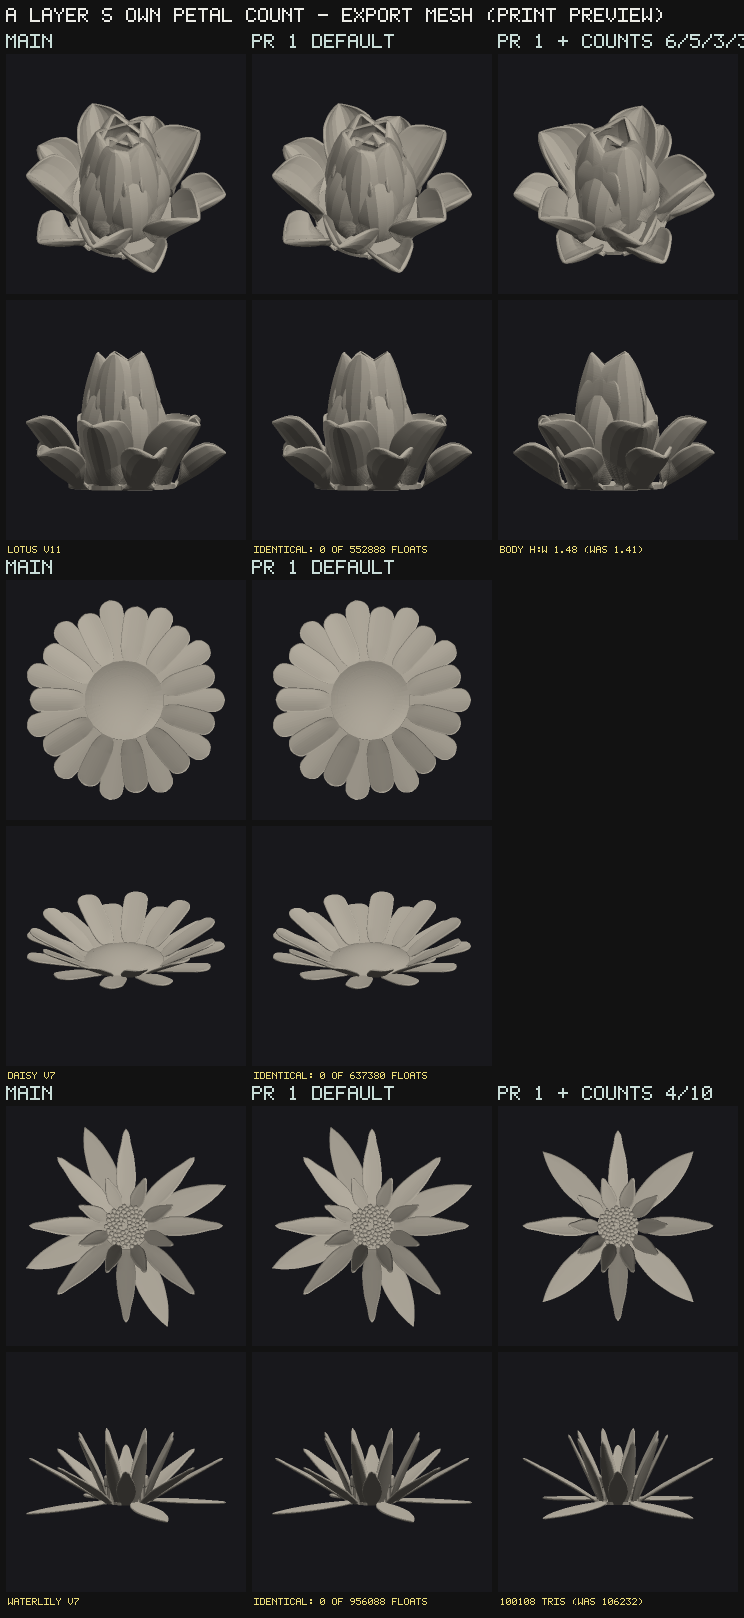
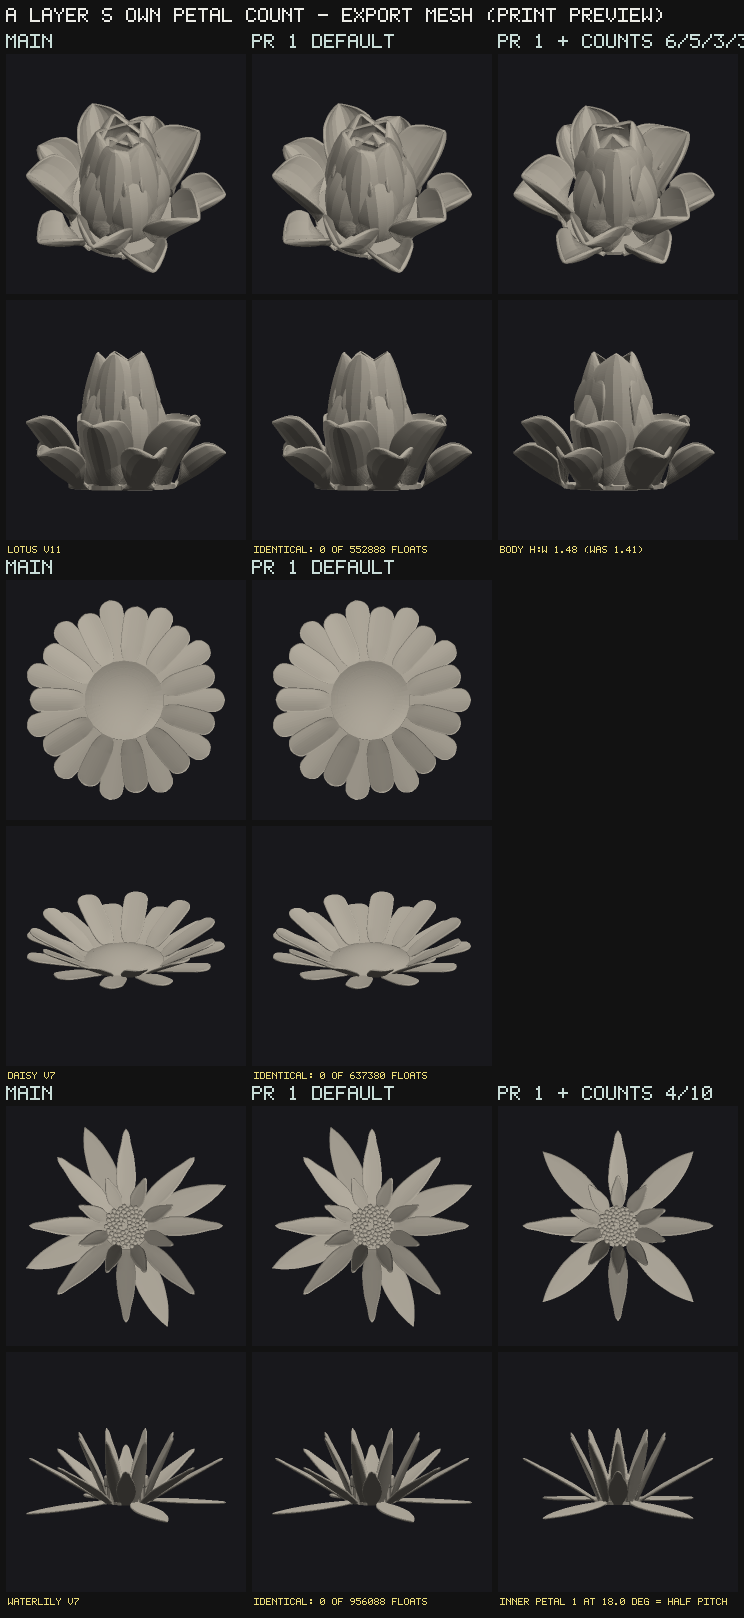
Petal count per whorl: Eva's §19.5 rulings — half-pitch inactive phase, per-turn SPIRAL flag
Rulings of Nov 8 on §19.5, recorded with the questions kept beneath:
1. range 3-40 approved; 2. the variance bar on the smallest whorl approved as built;
3. the SPIRAL legibility flag reads each turn's own count (footRing's
   `spiralShortTurns`, named on the flag: "on turn 3 (5 petals)");
4. a whorl whose count differs from the one outside it starts half its own
   pitch over (one line in `countPhases` and its restatement).

Witnesses: PC5 (the inner whorl's first emitted azimuth pi / its count past
the outer's) and PC6 (the short turns restated from each turn's own count,
against the build and the page's flag, both ways). Block 86 gains SPIRAL
13/8/8 (not flagged) beside 13/8/5 (flagged); the water lily row is the
half-pitch witness (18 deg). Mutants: the-inactive-phase-is-aligned and
the-spiral-flag-reads-the-global in the PC must-fail (9 of 9) and panel
route (at) (7 of 7); the inactive-pairs mutant re-anchored and re-run.

Local: block 86 export 18/18 and connectedness 18/18; route (at) clean
with its mutants; old load path 48/48 identical; apex anchors 273/273;
smoke census 253 families; sheet re-rendered (default 0 floats differ).

Claude-Session: https://claude.ai/code/session_01CdxGn2zMgu68tdjW7uzHzU

diff --git a/bloom.js b/bloom.js
@@ -2251,9 +2251,19 @@ function showingLine(mode) {
    the number and this reads it, so SPIRAL's behaviour is unchanged to the
    character (sequenceLength IS petalCount there) while the claim stays true
    in the new mode. */
+/* NOV 8 (Eva's ruling on §19.5 item 3): UNDER SPIRAL EACH TURN RUNS ITS OWN
+   SEQUENCE, so the flag reads EACH TURN'S OWN COUNT — footRing()'s
+   `spiralShortTurns` — and a 5-petal turn in 13/8/5 is flagged. With no count
+   owned every turn carries the global, so this is the old predicate exactly. */
 function spiralLowCount(ui, fr) {
-  return (ui.placement === 'SPIRAL' || ui.placement === 'CONTINUOUS')
-    && fr.sequenceLength < SPIRAL_LEGIBLE_COUNT;
+  if (ui.placement === 'SPIRAL') return !!(fr.spiralShortTurns && fr.spiralShortTurns.length);
+  return ui.placement === 'CONTINUOUS' && fr.sequenceLength < SPIRAL_LEGIBLE_COUNT;
+}
+/* which turns, named — only where a turn owns its count (the old line is
+   unchanged to the character where none does) */
+function spiralShortWhere(ui, fr) {
+  if (ui.placement !== 'SPIRAL' || !fr.countsOwned || !fr.spiralShortTurns || !fr.spiralShortTurns.length) return '';
+  return ` on ${fr.spiralShortTurns.map((t) => `turn ${t.turn + 1} (${t.count} petals)`).join(', ')}`;
 }
 
 /* THE FOOT-FLOOR RANGE, and why it is a RANGE now. Under the ringed arm
@@ -2390,7 +2400,7 @@ function layerCountLine(fr, mode, ui) {
   const word = String(ui.placement) === 'SPIRAL' ? 'turn' : 'layer';
   const per = (fr.rings || []).map((r) => `${word} ${Math.round(r.lambda) + 1} ${r.ownCount ? `${r.ownCount.built} own${r.ownCount.snapped ? ` (asked ${r.ownCount.asked}, SNAPPED)` : ''}` : `${Math.round(Number(ui.petalCount))} global`}`);
   const off = fr.phaseInactive && fr.phaseInactive.length
-    ? ` · LAYER PHASE INACTIVE between ${fr.phaseInactive.map((L) => `${word}s ${L} and ${L + 1} (${fr.whorlCounts[L - 1]} vs ${fr.whorlCounts[L]})`).join(', ')} — their counts differ`
+    ? ` · LAYER PHASE INACTIVE between ${fr.phaseInactive.map((L) => `${word}s ${L} and ${L + 1} (${fr.whorlCounts[L - 1]} vs ${fr.whorlCounts[L]})`).join(', ')} — their counts differ, so the inner one starts half its own pitch over`
     : '';
   const sep = fr.sepals && fr.rings[0] && fr.rings[0].ownCount ? ` · the sepals read the outer whorl's ${fr.rings[0].ownCount.built}` : '';
   return `PETAL COUNTS (${mode}, per ${word}): ${per.join('; ')}${off}${sep}\n`;
@@ -3950,7 +3960,7 @@ function summarise(ui, acc, mode, rings, fr, petals, built = null) {
        + (built && built.leaf && built.leaf.present ? leafLine(built.leaf, built.leavesBuilt) : '')
        + (built && built.inflorescence && built.inflorescence.present ? infloLine(built.inflorescence, built.inflorescenceBuilt) : '')
        + (built ? sepalLine(ui, built, mode) : '')
-       + (spiralLowCount(ui, fr) ? `SPIRAL BELOW ${SPIRAL_LEGIBLE_COUNT} IN THE SEQUENCE: the golden angle reads as an irregular whorl, not as phyllotaxis\n` : '')
+       + (spiralLowCount(ui, fr) ? `SPIRAL BELOW ${SPIRAL_LEGIBLE_COUNT} IN THE SEQUENCE${spiralShortWhere(ui, fr)}: the golden angle reads as an irregular whorl, not as phyllotaxis\n` : '')
        + (built && built.neighbour ? neighbourLine(built.neighbour, mode) : '')
        + `tris (${mode}) ${tris} · max dim (${mode}) ${dim} mm`;
 }
@@ -5567,6 +5577,9 @@ window.__bloomMetrics = () => ({
      `placement` would be a second copy of the branch. */
   continuousMode: lastFoot.continuousMode,
   sequenceLength: lastFoot.sequenceLength,
+  /* the turns the SPIRAL legibility flag names (each turn's own count, Nov 8) */
+  spiralShortTurns: lastFoot.spiralShortTurns || null,
+  spiralFlagShown: spiralLowCount({ placement: lastPlacement }, lastFoot),
   /* ===================================================================
      THE ARRANGEMENT'S POSITION AROUND THE AXIS — J7's and Z4b's only input,
      and the reason this session had to ship an instrument at all.

diff --git a/bloom-geometry.js b/bloom-geometry.js
@@ -2828,8 +2828,10 @@ export function footRing(state, acc, opts = {}) {
      INACTIVE between two whorls whose counts differ. Layer phase turns whorl L
      by `layerPhase` of ONE PITCH against whorl L-1, and between a 4-petal and a
      10-petal whorl "a pitch" has no single meaning — so across such a pair the
-     inner whorl takes the outer one's phase unchanged (no offset), and a run of
-     equal-count whorls below it steps by its OWN pitch from there. footRing()
+     inner whorl starts HALF ITS OWN PITCH over the outer one's phase (Eva's
+     ruling of Nov 8 on §19.5 item 4: not aligned on the same angle — that was
+     the first build, superseded), and a run of equal-count whorls below it
+     steps by its OWN pitch from there. footRing()
      owns the law and names every inactive pair (`phaseInactive`, the inner
      whorl's 0-based index); the read-out says so. WHERE NO LAYER OWNS A COUNT
      this array is null and the descriptor takes the pre-existing expression
@@ -2840,7 +2842,7 @@ export function footRing(state, acc, opts = {}) {
     const out = [];
     let start = 0;
     for (let L = 0; L < raw.length; L++) {
-      if (L > 0 && raw[L].whorlCount !== raw[L - 1].whorlCount) { start = L; out.push(out[L - 1]); phaseInactive.push(L); continue; }
+      if (L > 0 && raw[L].whorlCount !== raw[L - 1].whorlCount) { start = L; out.push(out[L - 1] + Math.PI / raw[L].whorlCount); phaseInactive.push(L); continue; }
       out.push(start === 0 ? (raw[L].lambda * state.layerPhase * TAU) / raw[L].whorlCount : out[start] + ((L - start) * state.layerPhase * TAU) / raw[L].whorlCount);
     }
     return out;
@@ -3717,6 +3719,16 @@ export function footRing(state, acc, opts = {}) {
     countsOwned,
     whorlCounts: continuousMode ? null : raw.map((q) => (q.ownCount ? q.ownCount.built : n)),
     phaseInactive,
+    /* THE SPIRAL LEGIBILITY FLAG READS EACH TURN'S OWN COUNT (Eva's ruling of
+       Nov 8 on §19.5 item 3): under SPIRAL every turn runs its own golden-angle
+       sequence, so a 5-petal turn in 13/8/5 is a sequence of five whatever the
+       global says. The turns (0-based) whose own count is under
+       SPIRAL_LEGIBLE_COUNT, with that count; null off SPIRAL. With no count
+       owned every turn carries `n`, so the list is non-empty exactly when the
+       old `sequenceLength < SPIRAL_LEGIBLE_COUNT` held — the flag unchanged. */
+    spiralShortTurns: state.placement === 'SPIRAL' && !continuousMode && !fanMode
+      ? raw.map((q, L) => ({ turn: L, count: q.ownCount ? q.ownCount.built : n })).filter((t) => t.count < SPIRAL_LEGIBLE_COUNT)
+      : null,
   };
 }
 

diff --git a/bloom-registry.js b/bloom-registry.js
@@ -3774,7 +3774,7 @@ export const CONTROLS = [
     label: 'Layer offset', fmt: (v, ui, shown) => {
       const pc = shown && shown.counts;
       const off = pc && pc.phaseInactive && pc.phaseInactive.length
-        ? ` — INACTIVE between ${pc.phaseInactive.map((L) => `${pc.name.toLowerCase()} ${L} and ${L + 1} (${pc.whorlCounts[L - 1]} vs ${pc.whorlCounts[L]} petals)`).join(', ')}: their counts differ, so there is no one pitch to offset by`
+        ? ` — INACTIVE between ${pc.phaseInactive.map((L) => `${pc.name.toLowerCase()} ${L} and ${L + 1} (${pc.whorlCounts[L - 1]} vs ${pc.whorlCounts[L]} petals)`).join(', ')}: their counts differ, so there is no one pitch to offset by — the inner whorl starts half its own pitch over`
         : '';
       return `${Number(v).toFixed(2)} slot${off}`;
     }, tier: 'standard', role: 'arrangement',

diff --git a/docs/bloom-photo-to-bloom-discovery.md b/docs/bloom-photo-to-bloom-discovery.md
@@ -2680,7 +2680,7 @@ the last column is what this PR did.
 | `petalGroupCount` / the role context | registry | **no** — FAN | none |
 | `tightestPitch`, `neighbourFlag`, the crowding feet (`footsOf`) | geometry | already read the emitted azimuths / the slot map | none needed |
 | the inflorescence's floret `petalCount` | geometry | **no** — a floret is a separate build with no scopes | none |
-| the SPIRAL legibility flag (`sequenceLength`) | page read-out | arguably — **left on the global**, flagged (§19.5) | none |
+| the SPIRAL legibility flag (`sequenceLength`) | page read-out, geometry | **yes, by ruling (§19.5 item 3)** — each turn's own count | footRing()'s `spiralShortTurns`, named on the flag |
 | the Petals read-out and the summary's `petals N` | registry, page | **yes** — told per whorl | per-whorl counts named |
 | the Layer offset read-out | registry | **yes, by ruling** — names each inactive pair | done |
 | the harness's "every petal accounted for" validity check | `junctionAssertions` | **yes** — found by the export gate on the first block-86 run (12 rows dropped) | restated whorl counts |
@@ -2700,10 +2700,15 @@ the last column is what this PR did.
 
 - **The area rule** sums each whorl's own feet, so R0 follows the count (the lotus at 6/5/3/3: 17.39 → 16.27 mm) and
   every owned ring, a fraction of R0, moves with it — §18.3's finding, now shipped.
-- **The layer phase is INACTIVE between two whorls whose counts differ**: across such a pair the inner whorl keeps the
-  outer one's phase unchanged (no offset); a run of equal counts below it steps by its own pitch from there. With no
-  count owned the phase is the old expression verbatim, by branch. **Consequence on the water lily (4/10): the inner
-  whorl's petal 1 stands on the outer's petal 1's azimuth** (no offset between them) — the ruling read literally.
+- **The layer phase is INACTIVE between two whorls whose counts differ**: across such a pair the inner whorl starts
+  **HALF ITS OWN PITCH** over the outer one's phase (ruled Nov 8, §19.5 item 4 — the first build put it on the same
+  angle); a run of equal counts below it steps by its own pitch from there. With no count owned the phase is the old
+  expression verbatim, by branch. On the water lily (4/10) the inner whorl's petal 1 stands **18°** past the outer's
+  petal 1 (π / 10); on the lotus (6/5/3/3) layer 2's stands 36° past layer 1's.
+- **The SPIRAL legibility flag reads EACH TURN's own count** (ruled Nov 8, §19.5 item 3): footRing() reports
+  `spiralShortTurns` (the turns under `SPIRAL_LEGIBLE_COUNT`, with their counts) and the flag names them —
+  `SPIRAL BELOW 8 IN THE SEQUENCE on turn 3 (5 petals)` on turns of 13/8/5 under a global 8. With no count owned every
+  turn carries the global, so the flag and its line are the old ones to the character.
 - **The sepals read the outer whorl's own count** (ceiling, pitch, interleave): 8 sepals asked over an outer whorl of 4
   build 4, told.
 - **Read-outs:** the Layer petals control (GLOBAL / OWN, asked vs built when SNAPPED, "the sepals follow this outer
@@ -2715,23 +2720,33 @@ the last column is what this PR did.
 - **PC0–PC4, a new family** (`petalCountClauses`, pure, carried in both STL gates through `zygoAssertions`): the record
   both ways (asked / built / snapped); each whorl's EMITTED azimuth count against the count restated from the row's
   `@scopes`; the inactive phase pairs; the AREA RULE restated over the per-whorl counts (ULP-bounded); the sepals'
-  ceiling and pitch on the outer whorl's restated count. **SV1** holds every emitted azimuth to the restated phase law,
+  ceiling and pitch on the outer whorl's restated count. **PC5** (Nov 8): across every restated inactive pair the inner
+  whorl's first EMITTED azimuth stands π / its restated count past the outer's. **PC6** (Nov 8): the turns under the
+  SPIRAL legibility bar, restated from each turn's own count, against the build's `spiralShortTurns` and the page's own
+  `spiralFlagShown`, both ways. **SV1** holds every emitted azimuth to the restated phase law (half pitch included),
   exactly. **PC1 counts the azimuths WRITTEN, not the row's length** — its own must-fail found that a whorl laid with
   fewer slots than its map leaves a pre-sized row with holes, which `.length` reads as the map.
 - **`node tools/verify-bloom-layer-count.mjs [--control]`** — the must-fail, because the apex table never runs the Z
-  family: 7 states clean; **7 of 7 mutants fire the clause they name, each witnessed on its mutated module** (the area
+  family: 9 states clean; **9 of 9 mutants fire the clause they name, each witnessed on its mutated module** (the area
   rule summing the global; the single-whorl arm likewise; the whorl keeping the global count; the phase staying active
-  across counts; the inactive pairs never named; the snap never recorded; the sepals reading the global). Spawned by
+  across counts; the inactive pairs never named; **the inactive phase ALIGNED** — the first build, PC5 + SV1, witnessed
+  on the water lily's inner first petal at 0°; **the SPIRAL flag reading the global** — PC6, witnessed on 13/8/5 reporting
+  no short turn; the snap never recorded; the sepals reading the global). The inactive-pairs mutant was RE-ANCHORED onto
+  the half-pitch line and re-run (it fires PC2). Spawned by
   `verify-bloom-defaults-bar.mjs` in both arms — no workflow edit.
 - **Panel route (at)** (THIRTY-SEVEN routes): hidden with per-layer OFF, under FAN and under CONTINUOUS; greyed with no
   pick; the pick shows the global; a drag owns and the whorl emits that many; the INACTIVE read-outs; give-back prunes and
-  the ring returns to the bit; a file's 4.6 builds 5, SNAPPED on both read-outs; the outer whorl's 4 caps 8 sepals. Five
-  mutants, each firing its clause.
-- **Matrix block 86** (17 rows, 1,684): the default; layer 2 owning 12 (inactive both sides); a run of equal owned
+  the ring returns to the bit; a file's 4.6 builds 5, SNAPPED on both read-outs; the outer whorl's 4 caps 8 sepals; the
+  inner whorl's first petal half its own pitch over on the emitted azimuths, told; under SPIRAL the flag SHOWN on turns
+  of 13/8/5 (naming turn 3) and ABSENT on 13/8/8, the global 8 either way. Seven mutants, each firing its clause (the two
+  new ones: the inactive phase aligned — a `bloom-geometry.js` mutant —, and the SPIRAL flag reading the global).
+- **Matrix block 86** (18 rows, 1,685): the default; layer 2 owning 12 (inactive both sides); a run of equal owned
   counts below an inactive pair; the range's two ends; two SNAPPED asks; the single-whorl arm; the outer whorl owning 4
   under 8 sepals; the photo lotus at 6/5/3/3 (v11's own widths — the widened variant folds, §18.3); the photo water lily
-  at 4/10 with its sepals; SPIRAL turns of 13/8/5; Voronoi infill and BONE texture on differing counts; three GATED
-  records (FAN, CONTINUOUS, per-layer OFF). **Smoke block 86** (6 rows, `--conn`). **`frozen/phase95`** = the 1,667
+  at 4/10 with its sepals (the half-pitch witness); SPIRAL turns of 13/8/5 (a short turn the flag catches) and 13/8/8
+  (none, not flagged); Voronoi infill and BONE texture on differing counts; three GATED
+  records (FAN, CONTINUOUS, per-layer OFF). **Smoke block 86** (7 rows, `--conn`; the SPIRAL 13/8/5 row claims PC6, the
+  water lily PC5). **`frozen/phase95`** = the 1,667
   rows at `8f6c570`, proved deep-equal.
 - **Photo census**: `layerPetalCount` is class d (a view; a photo writes `values.layerPetalCount`, schema v6 — PR 2);
   the census refuses to load if the geometry's layer values are not `ring` + `notYet`. Runs clean.
@@ -2744,22 +2759,35 @@ the last column is what this PR did.
 | its `--control` (petalCup + 0.05) | moved ui, save and STL |
 | must-fail: layer 2 takes one petal more with nothing asked (a copy of this tree) | **22 DIFFER** — every per-layer design; the gated CONTINUOUS row and every non-per-layer sample hold |
 | the sheet's default column (lotus v11, daisy v7, water lily v7, main vs PR) | **0 floats differ** on all three |
-| block 86, export gate | PASS 17 / 17 watertight, every clause silent |
-| block 86, connectedness | PASS 17 / 17 one piece |
-| block 86, census (Node) | 0 within-shell pairs on all 17 |
-| panel gate | PASS (route (at) and its five mutants) |
+| block 86, export gate (re-run after the §19.5 rulings) | PASS 18 / 18 watertight, every clause silent (X2's census included) |
+| block 86, connectedness (re-run) | PASS 18 / 18 one piece |
+| block 86, census (Node, first build) | 0 within-shell pairs on all 17 |
+| panel gate | PASS (route (at) and its five mutants); re-run after the rulings: route (at) and the SPIRAL flag route (e) clean, **7 of 7 (at) mutants fire** |
+| PC must-fail after the rulings | 9 states clean, 9 of 9 mutants |
+| old load path after the rulings | **48 of 48 identical** (the half pitch acts only where counts differ, which no saved design has) |
 | scopes gate, and its 22 mutants | PASS; 22 of 22 |
 | design-file gate (Node) | PASS — F2 expects the reader's told note on the two SNAPPED rows |
 | root-taper must-fail (FC1 re-pointed onto the own count) | 10 of 10 |
-| apex table anchors | 273 of 273 match exactly once — no mutant needed re-anchoring |
-| smoke census and its negative control | PASS, 251 families |
+| apex table anchors | 273 of 273 match exactly once — no mutant needed re-anchoring (re-checked after the rulings) |
+| smoke census and its negative control | PASS, 253 families (PC5, PC6 claimed) |
 
 Block 86, EXPORT triangles: default 73,680 · own 12: 85,928 · 8/5/5: 55,308 · min 3: 58,370 · max 40: 171,664 · single
 whorl 5: 15,502 · lotus 6/5/3/3: **52,246** (v11 61,432) · water lily 4/10: **100,108** (v7 106,232) · SPIRAL 13/8/5: 79,804
-· infill 5/9/5: 175,048 · BONE 5/9: 1,976,738 (98.8% of the 2.0 M cap, the allocator's own fill).
+· SPIRAL 13/8/8: 88,990 · infill 5/9/5: 175,048 · BONE 5/9: 1,980,258 (99.0% of the 2.0 M cap, the allocator's own fill;
+1,976,738 before the half pitch moved the inner whorl). Every other count is unmoved by the rulings.
 
-### 19.5 Made without a ruling — for Eva
+### 19.5 Made without a ruling — RULED (Eva, Nov 8)
 
+**Rulings:**
+1. **Layer petals range 3–40: approved.**
+2. **The variance aliasing threshold reads the smallest whorl's count: approved as built.**
+3. **The SPIRAL legibility flag reads EACH TURN's own count** (a 5-petal turn in 13/8/5 must be flagged) — **built**:
+   `spiralShortTurns`, PC6, panel route (at), the mutant `the-spiral-flag-reads-the-global` (both tools).
+4. **Phase inactive: a whorl whose count differs from the whorl outside it starts HALF ITS OWN PITCH over** (not
+   aligned on the same angle) — **built**: one line in `countPhases` and its restatement, PC5, the mutant
+   `the-inactive-phase-is-aligned` (both tools). The water lily's inner first petal now stands 18° past the outer's.
+
+**The questions, as asked:**
 1. **The range 3–40** (Petals' own). An owned whorl of 1 or 2 is not offered.
 2. **The variance field's aliasing bar reads the SMALLEST whorl count** — the whorl that aliases first. The alternative
    is a bar per whorl, which changes the told line's shape.

diff --git a/CLAUDE.md b/CLAUDE.md
@@ -801,21 +801,24 @@ route (as)).
 BETWEEN DIFFERING COUNTS, THE SEPALS ON THE OUTER WHORL'S COUNT** (option A of §18, Eva's rulings of Nov 8 — read §18.6
 and §19 of `docs/bloom-photo-to-bloom-discovery.md` before touching `layerOwnedCount`, `LAYER_PETAL_COUNT_RANGE`,
 `whorlCount` / `countPhases` / `phaseInactive` / `nOuter` in `footRing()`, `layerPetalCount`, bloom.js's `COUNT_IDS` /
-`pickedCountOf` / `layerCountLine`, `petalCountClauses` (PC0–PC4), `ownedCountRestated` or route (at)).
+`pickedCountOf` / `layerCountLine`, `spiralShortTurns` / `spiralLowCount`, `petalCountClauses` (PC0–PC6),
+`ownedCountRestated` or route (at)).
 - A layer entry's `values.layerPetalCount` replaces the global for that whorl; absent, the whorl is `slotCount` itself BY
   BRANCH. RADIAL / SPIRAL with Per-layer values ON only; hidden and inert under CONTINUOUS and FAN. The tube stays
   unavailable under Per-layer values (SO11) — its plan reads one count, and that is why.
 - What follows the owned count, one owner each: the area rule (R0 follows the feet), the slot map, the whorl's `count`, the
   foot cap's span, the scope term's n, the sepals (outer whorl's count), the layer phase (INACTIVE across a differing pair,
-  `phaseInactive`, told), the variance aliasing bar (the smallest whorl — no ruling). §19.1 lists EVERY reader, with the
-  ones deliberately left on the global and why.
-- **The range 3–40 is PROPOSED** (Petals' own; the harness refuses to load if it moves). Off-grid or past it: SNAPPED and
-  told; the file keeps what was asked.
+  `phaseInactive`, told — **the inner whorl starts HALF ITS OWN PITCH over**, RULED Nov 8, PC5), the SPIRAL legibility
+  flag (**each turn's own count**, RULED Nov 8, `spiralShortTurns`, PC6), the variance aliasing bar (the smallest whorl —
+  RULED, approved as built). §19.1 lists EVERY reader, with the ones deliberately left on the global and why.
+- **The range 3–40 is RULED** (Nov 8; Petals' own; the harness refuses to load if it moves). Off-grid or past it:
+  SNAPPED and told; the file keeps what was asked.
 - **PC1 counts the azimuths WRITTEN, never a row's `.length`**: the builder pre-sizes a row to the slot map, so a whorl laid
   with fewer slots leaves holes `.length` cannot see — found by the family's own must-fail.
-- Must-fail: `node tools/verify-bloom-layer-count.mjs --control` (7 witnessed mutants; the apex table never runs the Z
-  family), spawned by the defaults bar. Panel route (at) with five mutants (THIRTY-SEVEN routes). Old load path 48 / 48
-  identical, the must-fail moving 22. Block 86 (17 rows, 1,684), smoke block 86 (6); `frozen/phase95` = the 1,667 rows at
+- Must-fail: `node tools/verify-bloom-layer-count.mjs --control` (9 witnessed mutants, among them the phase ALIGNED and
+  the SPIRAL flag on the global; the apex table never runs the Z family), spawned by the defaults bar. Panel route (at)
+  with seven mutants (THIRTY-SEVEN routes). Old load path 48 / 48 identical, the must-fail moving 22. Block 86 (18 rows,
+  1,685), smoke block 86 (7); `frozen/phase95` = the 1,667 rows at
   `8f6c570`. Sheet: `node tools/shot-bloom-layer-count.mjs docs/img/layer-petal-count.png --base <wt>`.
 
 **PARAMETER SCOPING HAS A STATE MODEL AND NOTHING ELSE YET — ZERO CONTROLS, ZERO ROWS, ZERO BYTES**
